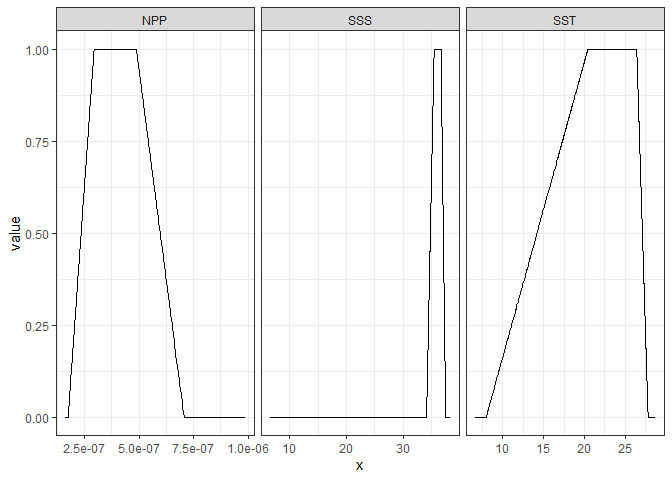
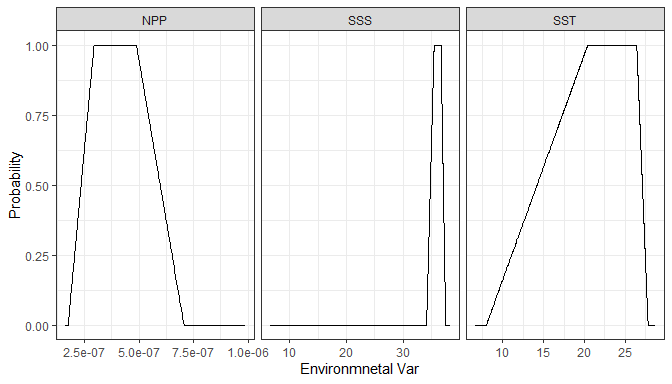
fixed typos and titles

diff --git a/README.md b/README.md
@@ -6,7 +6,9 @@
 <!-- badges: start -->
 <!-- badges: end -->
 
-The goal of aquamean is to …
+The goal of `aquamean` is to compute the aquamap model {trapeze} based
+on spatial occurrence and project the habitat suitability index for a
+given environmental raster.
 
 ## Installation
 
@@ -25,31 +27,22 @@ This is a basic example which shows you how to solve a common problem:
 ``` r
 library(aquamean)
 library(tidyverse)
-#> ── Attaching packages ─────────────────────────────────────── tidyverse 1.3.1 ──
-#> ✔ ggplot2 3.3.6     ✔ purrr   0.3.4
-#> ✔ tibble  3.1.7     ✔ dplyr   1.0.9
-#> ✔ tidyr   1.2.0     ✔ stringr 1.4.0
-#> ✔ readr   2.1.2     ✔ forcats 0.5.1
-#> ── Conflicts ────────────────────────────────────────── tidyverse_conflicts() ──
-#> ✖ dplyr::filter() masks stats::filter()
-#> ✖ dplyr::lag()    masks stats::lag()
-library(rnaturalearthdata)
-library(sf)
-#> Linking to GEOS 3.9.1, GDAL 3.3.2, PROJ 7.2.1; sf_use_s2() is TRUE
-library(ROCR)
+library(rnaturalearthdata) # to get world map for plotting
+library(sf) # for plotting spatial data
+library(ROCR) # for getting AUC curve
 ```
 
 ## Use of `aquatrap` function
 
 ``` r
 #test data
- x <-which(test_data$occurance==1)
+x <-which(test_data$occurance==1)
 ENV<-test_data[x,4:6]
 
 myAquaOut <- aquatrap(ENV, quant = c(.01, 0.25, 0.75, 0.99))
 ```
 
-To visualize the trapeze probability function for each environemntal
+To visualize the trapeze probability function for each environmental
 data:
 
 ``` r
@@ -61,11 +54,12 @@ trap <- x %>%mutate(x=y$value)
 #plot trap variables
 ggplot(trap)+geom_line(aes(x,value))+
   facet_wrap(~ name,scales ="free_x")+
+  labs(x="Environmnetal Var", y="Probability")+
   theme_bw()
 #> Warning: Removed 2 row(s) containing missing values (geom_path).
 ```
 
-<img src="man/figures/README-unnamed-chunk-2-1.png" width="100%" />
+![](man/figures/README-unnamed-chunk-2-1.png)<!-- -->
 
 ## Use of `aquatrap_pred` function
 
@@ -93,11 +87,11 @@ map <- ggplot(data = world) +
 # plot the data
 map + 
   geom_raster(data = data_tsi, aes(x = Lon, y = Lat, fill= yul))+
-  viridis:: scale_fill_viridis(option = "H", na.value = NA)+ labs(x="",y="")
+  viridis::scale_fill_viridis(option = "H", na.value = NA)+ labs(x="",y="")
 #> Warning: Removed 79292 rows containing missing values (geom_raster).
 ```
 
-<img src="man/figures/README-unnamed-chunk-4-1.png" width="100%" />
+![](man/figures/README-unnamed-chunk-4-1.png)<!-- -->
 
 # ROCR curve
 
@@ -126,7 +120,7 @@ plot(AUC, main="ROCR", colorize=TRUE,
      yaxis.col.axis="black", cex.lab=1, cex.main=1)
 ```
 
-<img src="man/figures/README-unnamed-chunk-5-1.png" width="100%" />
+![](man/figures/README-unnamed-chunk-5-1.png)<!-- -->
 
 ``` r
 
